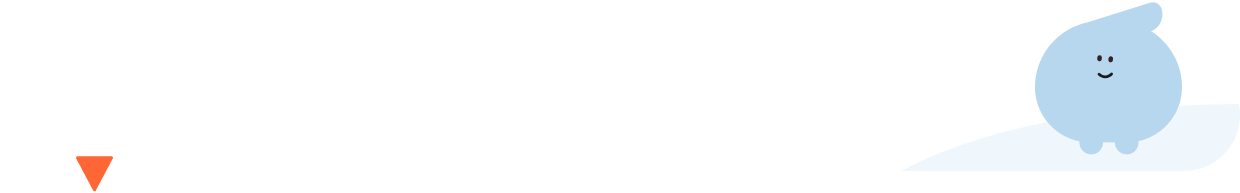
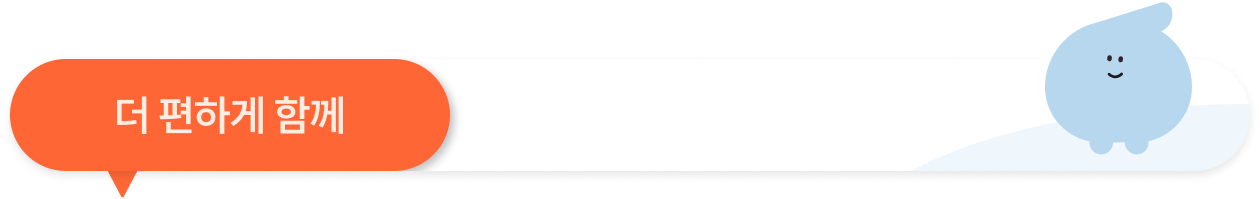
Update section8c rows 2-3 with new all-in-one pill+bar images
share.png and comfortable.png were re-exported with the orange pill,
tail, and white bar baked directly into the image (previously only
the character was baked in and the pill/bar were separate CSS). Drop
the now-redundant CSS pill/bar for those two rows and just overlay
the descriptive text on top of the image.

Row 1 (live.png) hasn't been re-exported the same way yet, so it
still uses the old .s8c-pill + .s8c-bar structure — will need the new
live.png to match rows 2-3.

Changed region(s): [[0.0, 0.2798, 0.3677, 0.9948], [0.8274, 0.0, 0.9806, 0.8083], [0.8581, 0.0933, 0.8887, 0.1554]]

diff --git a/index.html b/index.html
@@ -299,19 +299,13 @@
           <img class="s8c-bar-art" src="images/live.png" alt="" aria-hidden="true" />
         </div>
       </div>
-      <div class="s8c-row">
-        <span class="s8c-pill">함께 나누고</span>
-        <div class="s8c-bar">
-          <p class="s8c-bar-text">서로 챙길 일은 조금 <strong>덜어내고</strong></p>
-          <img class="s8c-bar-art" src="images/share.png" alt="" aria-hidden="true" />
-        </div>
+      <div class="s8c-row s8c-row-img">
+        <img class="s8c-row-art" src="images/share.png" alt="함께 나누고" />
+        <p class="s8c-row-text">서로 챙길 일은 조금 <strong>덜어내고</strong></p>
       </div>
-      <div class="s8c-row">
-        <span class="s8c-pill">더 편하게 함께</span>
-        <div class="s8c-bar">
-          <p class="s8c-bar-text">돈보다 <strong>서로에게</strong> 더 마음 쓸 수 있도록</p>
-          <img class="s8c-bar-art" src="images/comfortable.png" alt="" aria-hidden="true" />
-        </div>
+      <div class="s8c-row s8c-row-img">
+        <img class="s8c-row-art" src="images/comfortable.png" alt="더 편하게 함께" />
+        <p class="s8c-row-text">돈보다 <strong>서로에게</strong> 더 마음 쓸 수 있도록</p>
       </div>
       <h2 class="s8c-closing">정산은 <span class="s8c-less">덜고</span>, 사이는 <span class="s8c-more">더하고</span></h2>
     </div>

diff --git a/style.css b/style.css
@@ -1417,6 +1417,23 @@ img { max-width: 100%; display: block; }
   white-space: nowrap;
 }
 .s8c-bar-text strong { font-weight: 800; color: var(--ink); }
+/* rows 2-3: the pill + tail + white bar are now baked into the image
+   itself (share.png / comfortable.png include their own opaque white
+   background), so this row is just the image plus a text overlay —
+   no separate CSS-drawn pill or bar needed. Row 1 (live.png) hasn't
+   been re-exported this way yet, so it still uses .s8c-pill/.s8c-bar. */
+.s8c-row-img { position: relative; }
+.s8c-row-art { display: block; width: 100%; height: auto; }
+.s8c-row-text {
+  position: absolute;
+  left: 38%;
+  top: 50%;
+  transform: translateY(-50%);
+  font-size: clamp(14px, 1.25vw, 18px);
+  color: #6b6b6b;
+  white-space: nowrap;
+}
+.s8c-row-text strong { font-weight: 800; color: var(--ink); }
 .s8c-closing {
   text-align: center;
   margin-top: clamp(24px, 4vh, 40px);
